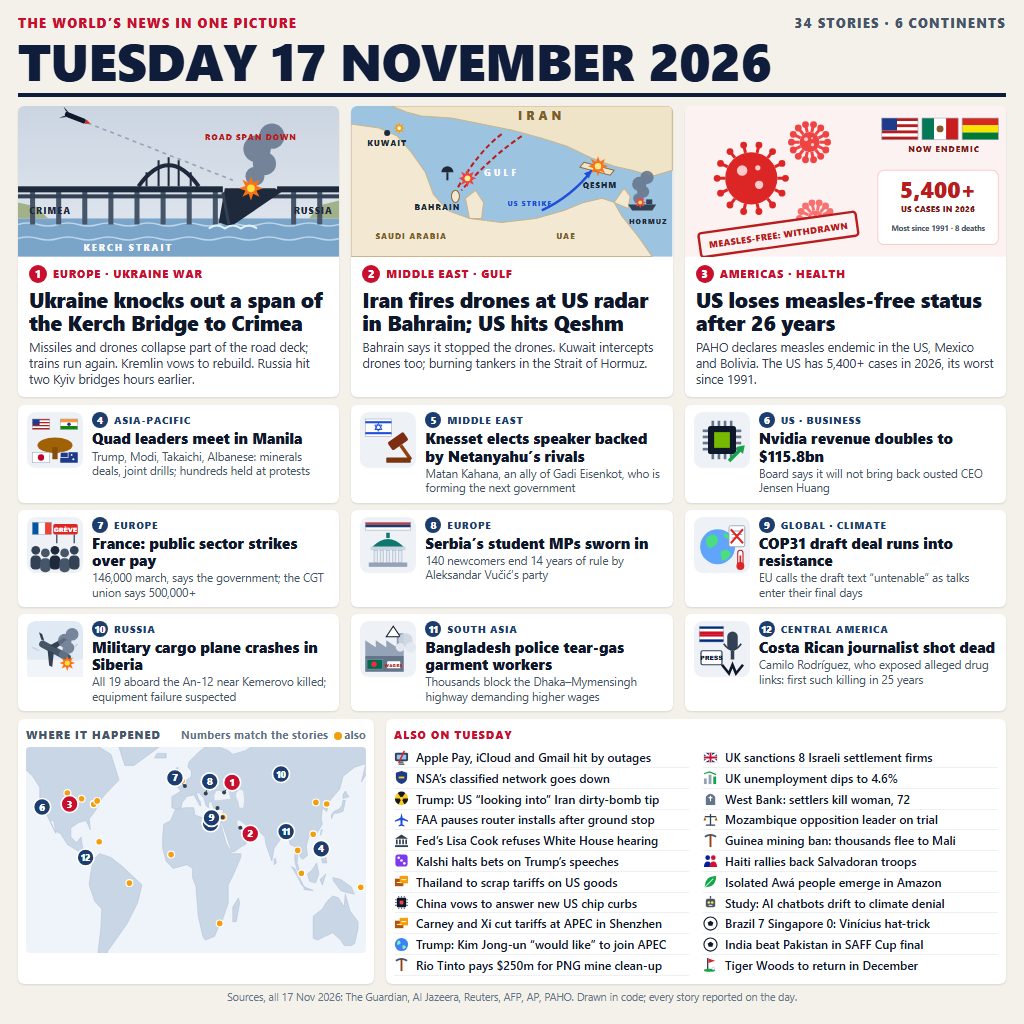
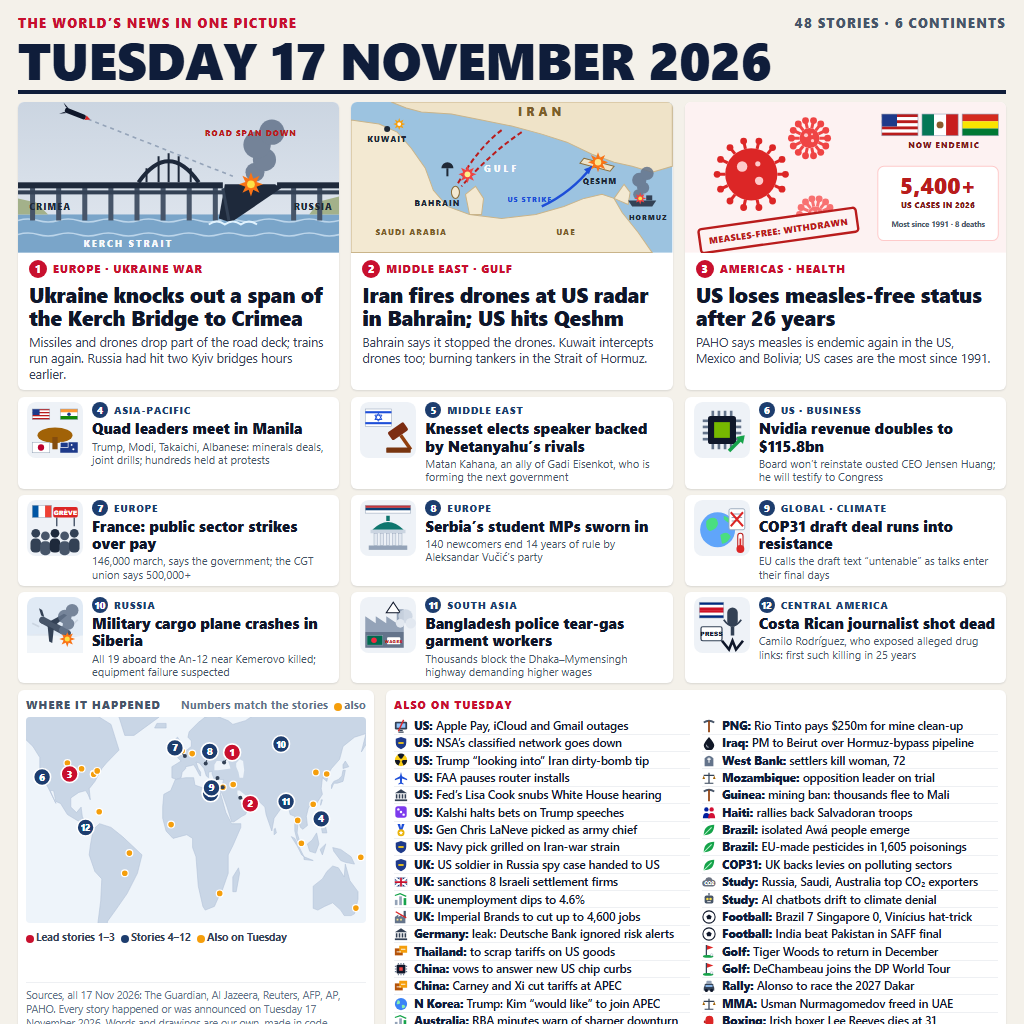
v3: 48 stories, short items grouped by place, legend and sources under the map

Changed region(s): [[0.0, 0.0312, 0.9688, 1.0]]

diff --git a/README.md b/README.md
@@ -4,7 +4,7 @@
 [![rank](https://make.fun/badge/news-image-20261117/ryanp1632-netizen/makefun-news-image-1117/rank.svg)](https://make.fun/bounty/news-image-20261117/leaderboard?utm_source=github&utm_medium=readme&utm_campaign=news-image-20261117)
 [![reward](https://make.fun/badge/news-image-20261117/ryanp1632-netizen/makefun-news-image-1117/reward.svg)](https://make.fun/bounty/news-image-20261117?utm_source=github&utm_medium=readme&utm_campaign=news-image-20261117)
 
-Tuesday 17 November 2026's world news as one 1024x1024 front page: 34 stories: three drawn leads (the Kerch Bridge strike, Iran–US blows across the Gulf, the US losing measles-free status), nine more with icons, a world map whose numbered pins match the stories, and a list of shorter items. Everything is drawn in code (hand-written SVG in HTML, screenshotted by headless Chrome); no image model or paid API is used.
+Tuesday 17 November 2026's world news as one 1024x1024 front page with 48 stories: three drawn leads (the Kerch Bridge strike, Iran–US blows across the Gulf, the US losing measles-free status), nine more with icons, a world map whose numbered pins match the stories, and 36 shorter items grouped by place. Everything is drawn in code (hand-written SVG in HTML, screenshotted by headless Chrome); no image model or paid API is used.
 
 ## Run it
 
